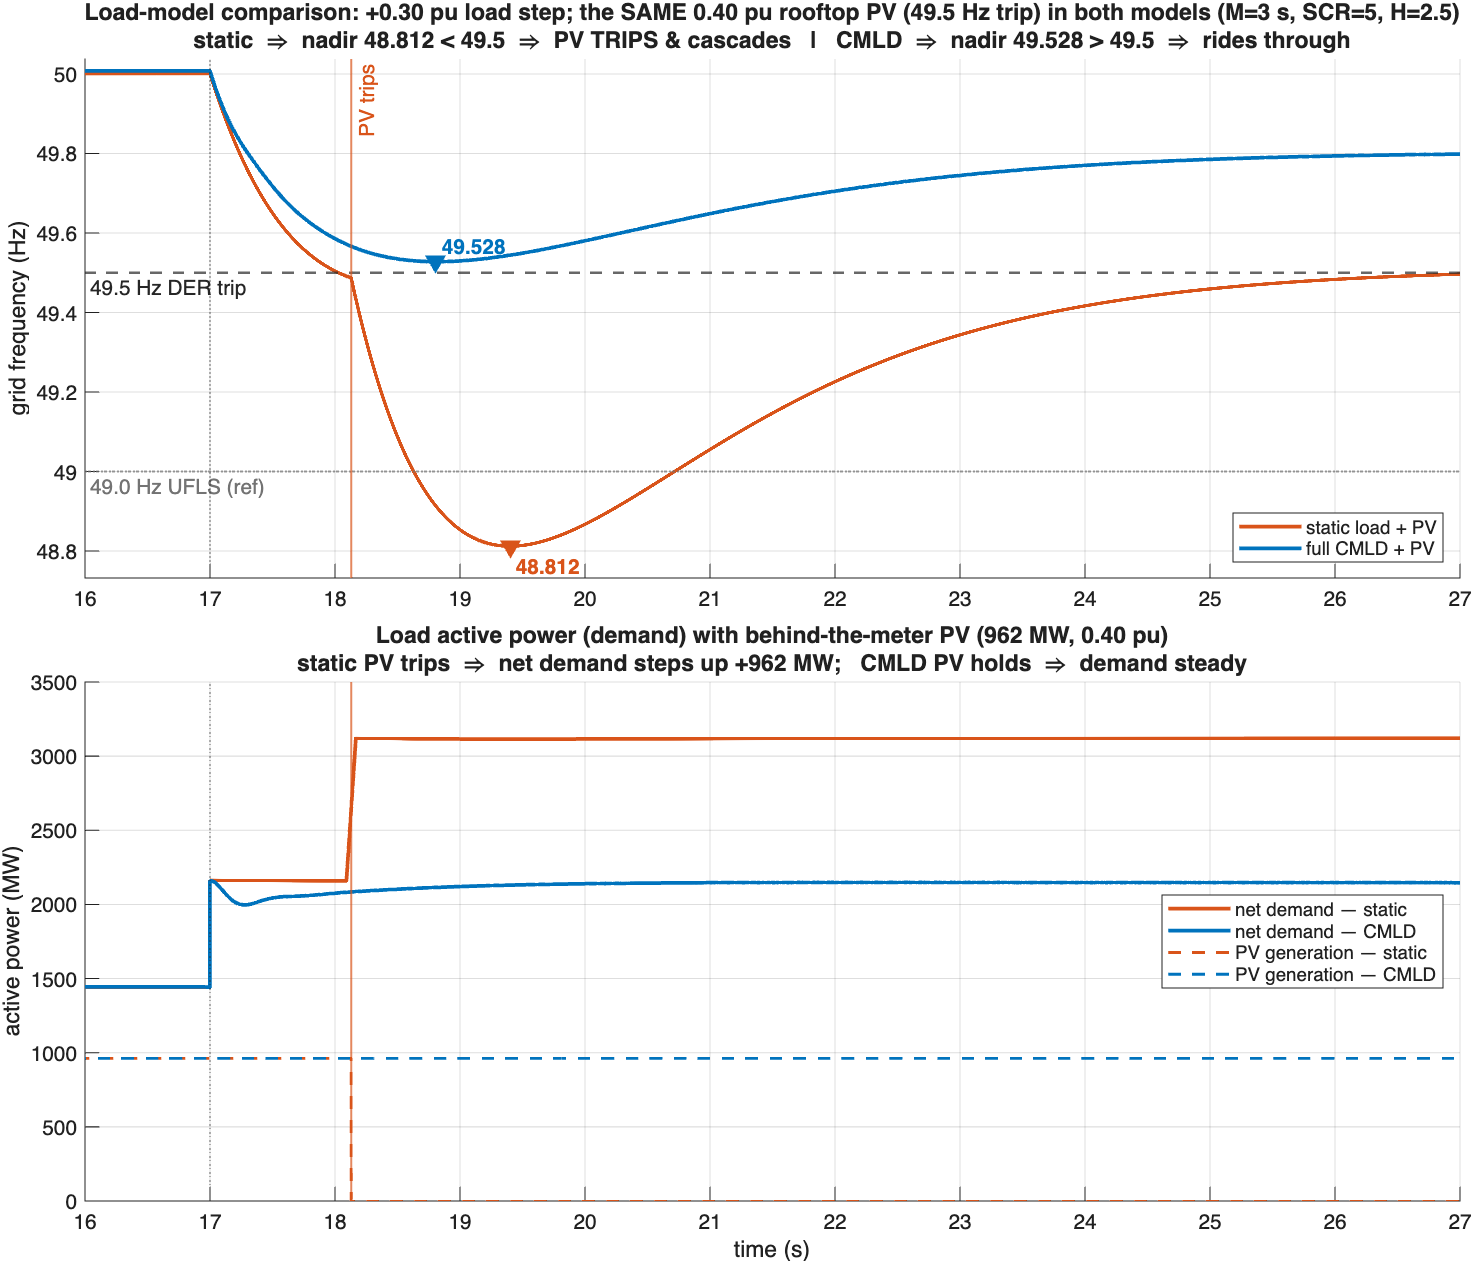
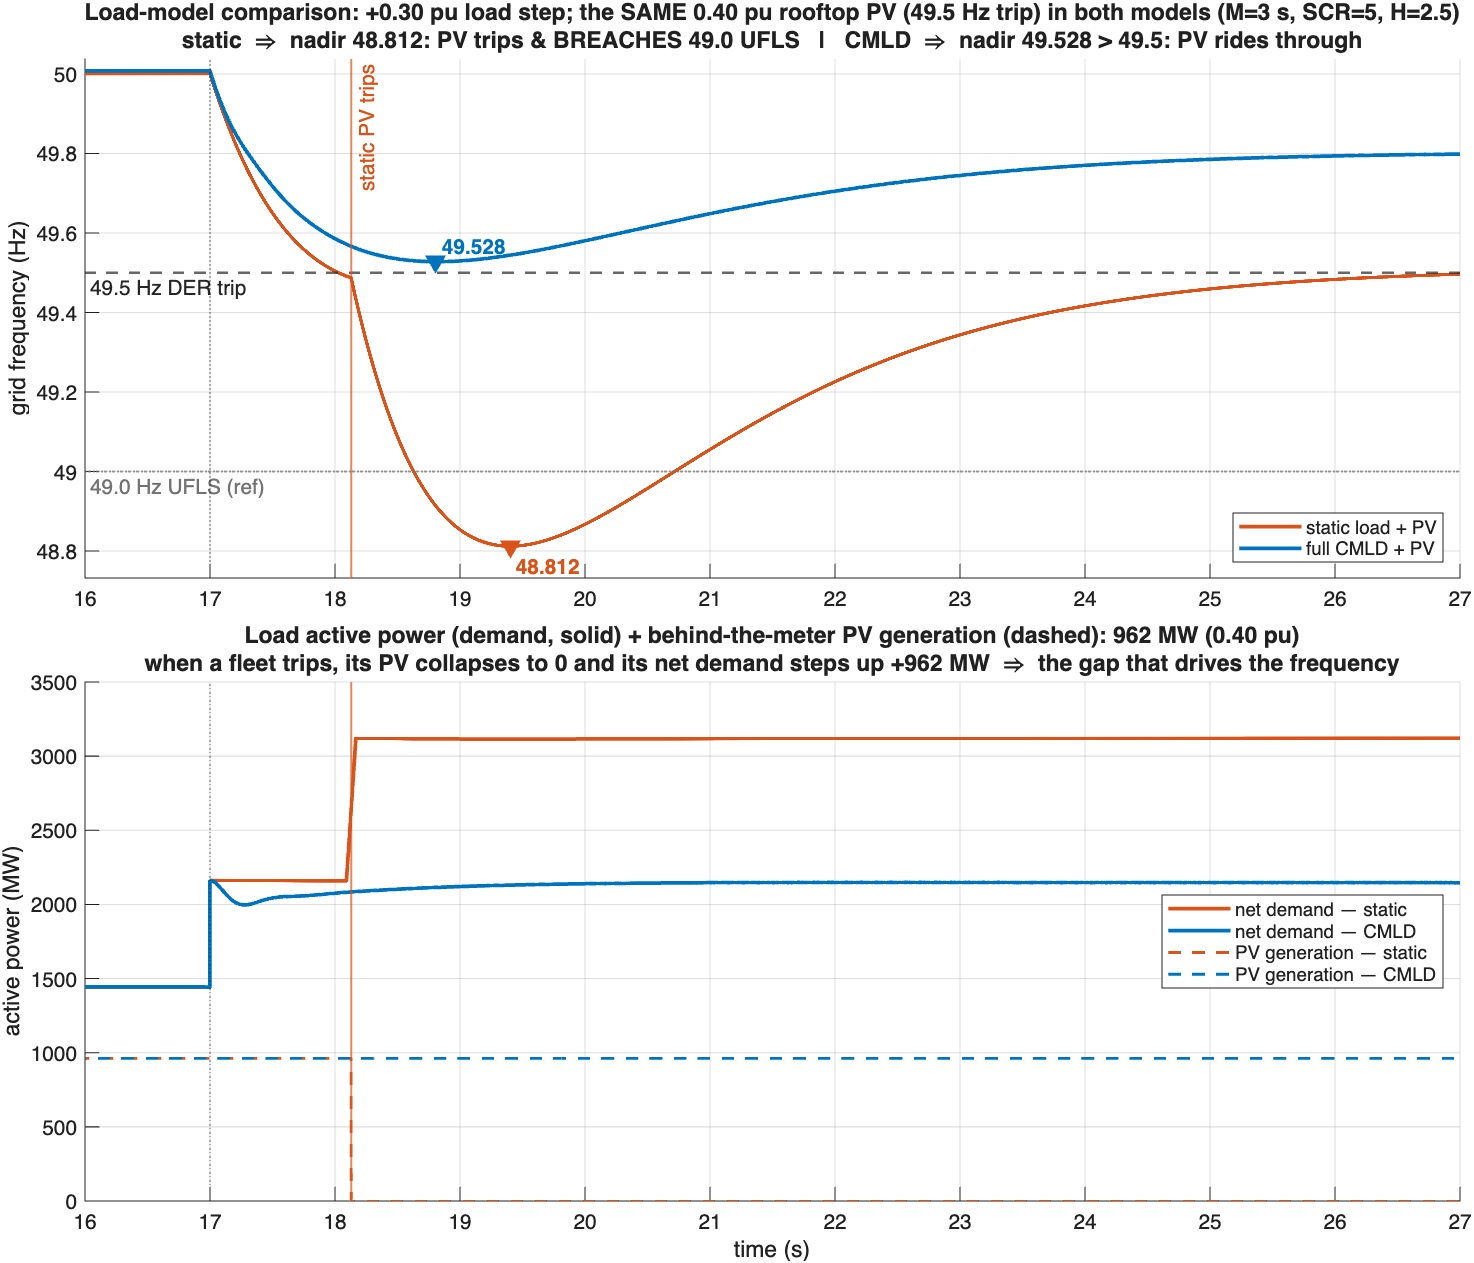
pv_trip: UFLS knife-edge case (both PV trip; static breaches 49 Hz, CMLD holds)
New 'UFLS' mode: larger disturbance so BOTH load models cross 49.5 (both PV
fleets trip), then find where the static's post-trip cascade breaches the 49.0 Hz
UFLS line while the CMLD's frequency support keeps it above. Found at dP=+0.34,
P_pv=0.25: static nadir 48.984 (breaches UFLS), CMLD nadir 49.106 (holds) -- same
event, both fleets trip, opposite load-shedding outcome from load-model fidelity.

Generalized pv_figure2: marks BOTH PV-trip instants and auto-writes the Panel-1
outcome text (rides / trips-holds / trips-breaches-UFLS); Panel-2 caption is now
generic (a tripping fleet's PV -> 0, its net demand steps up) so it's correct
whether one or both fleets trip. Regenerated phase2 / SA / 0.40pu figures.

phase_ufls + ufls_verdict + DPU option. Figure ->
phase_ufls/pv_trip_ufls_dp0.34_pv25.png. pv_ufls.mat gitignored.

Changed region(s): [[0.156, 0.4941, 0.9362, 0.5558], [0.1248, 0.0, 0.9362, 0.0618], [0.0936, 0.5249, 0.1248, 0.5558]]

diff --git a/studies/pv_trip/pv_trip.m b/studies/pv_trip/pv_trip.m
@@ -41,6 +41,7 @@ ip.addParameter('P_pv',[]);      % Phase 2: PV penetration (W); default 0.25*P_W
 ip.addParameter('t_trip_delay',0.1);  % Phase 2: DER trip delay (s)
 ip.addParameter('DP2',[0.28 0.30 0.32]); % Phase 2: focused knife-edge sweep
 ip.addParameter('PVfrac',[0.10 0.20 0.30 0.40 0.50]); % SA: DER trip-block penetrations (pu)
+ip.addParameter('DPU',[0.32 0.34 0.36 0.38 0.40 0.42]); % UFLS: disturbances where BOTH PV-trip
 ip.parse(varargin{:}); o = ip.Results;
 
 sc   = fileparts(mfilename('fullpath'));           % studies/pv_trip
@@ -53,7 +54,8 @@ switch upper(char(phase))
     case 'P1', T = phase1(o, sc, repo);
     case 'P2', T = phase2(o, sc, repo);
     case 'SA', T = phase_sa(o, sc, repo);
-    otherwise, error('pv_trip:phase','unknown phase "%s" (P1|P2|SA)', phase);
+    case 'UFLS', T = phase_ufls(o, sc, repo);
+    otherwise, error('pv_trip:phase','unknown phase "%s" (P1|P2|SA|UFLS)', phase);
 end
 end
 
@@ -263,6 +265,69 @@ fprintf('\n===== SA summary =====\n'); disp(T);
 
 pv_figure_sa(runs, T, ft, Ptarget, dp, figdir);
 fprintf('phase_sa -> %s\nPV_TRIP_SA_OK\n', figdir);
+end
+
+% ============================ UFLS KNIFE-EDGE =============================
+function T = phase_ufls(o, sc, repo) %#ok<INUSD>
+% The SECOND discrete threshold. Here the disturbance is large enough that BOTH
+% load models cross 49.5 -> PV trips in BOTH. The question is the 49.0 Hz UFLS
+% line: does the post-trip cascade breach it (mass load-shedding) or not? We
+% sweep the disturbance to find the case where the STATIC breaches 49.0 (UFLS
+% fires) while the CMLD's frequency support keeps its post-trip cascade ABOVE
+% 49.0 (no shedding). Same event, both PV fleets trip, opposite load-shedding
+% outcome -- from load-model fidelity alone.
+mdir = fullfile(sc,'models');
+figdir = fullfile(sc,'phase_ufls'); if ~isfolder(figdir), mkdir(figdir); end
+cmldPath = fullfile(mdir,'pv_cmld.slx'); statPath = fullfile(mdir,'pv_static.slx');
+assert(isfile(cmldPath)&&isfile(statPath), 'need pv_cmld.slx + pv_static.slx');
+Ptarget = sb_grid_sim.default_params('full_cmld').scale.P_W;
+ft = o.f_trip; fu = 49.0; tdel = o.t_trip_delay;
+P_pv = o.P_pv; if isempty(P_pv), P_pv = 0.25*Ptarget; end
+
+p1 = fullfile(sc,'phase1_threshold','pv_phase1.mat');
+assert(isfile(p1), 'run Phase 1 first (need pv_phase1.mat for the gross=P_W calibration)');
+S = load(p1); LFm = S.LFm; CapC = S.CapC;
+mv_cmld0 = compose_full(o.phi,o.H,o.Rr,[],LFm); mv_stat0 = struct('CapC',CapC);
+addpv = @(mv) addpvfields(mv, P_pv, ft, tdel);
+
+fprintf('\n==== pv_trip UFLS knife-edge: both PV-trip; static breaches 49.0, CMLD holds ====\n');
+fprintf('  P_pv=%.0f MW (%.2f pu); gross=P_W; sweeping the disturbance\n', P_pv/1e6, P_pv/Ptarget);
+DP = o.DPU(:)'; n = numel(DP);
+rows = cell(n,7); traces = struct('dp',{},'cmld',{},'stat',{});
+for i = 1:n
+    dp = DP(i);
+    rs = runfull(mkparams('static',    statPath, o, dp), addpv(mv_stat0));
+    rc = runfull(mkparams('full_cmld', cmldPath, o, dp), addpv(mv_cmld0));
+    v = ufls_verdict(rs, rc, fu);
+    fprintf('  dP=%+.2f | static nadir %.3f trip=%d breach=%d | CMLD nadir %.3f trip=%d breach=%d -> %s\n', ...
+        dp, rs.metrics.nadir, rs.tripped, rs.metrics.nadir<fu, rc.metrics.nadir, rc.tripped, rc.metrics.nadir<fu, v);
+    rows(i,:) = {dp, rs.metrics.nadir, rc.metrics.nadir, rs.tripped, rc.tripped, rc.metrics.nadir-rs.metrics.nadir, v};
+    traces(i) = struct('dp',dp,'cmld',rc,'stat',rs); %#ok<AGROW>
+end
+T = cell2table(rows,'VariableNames',{'dp','nadir_static','nadir_cmld','trip_static','trip_cmld','nadir_gap','verdict'});
+save(fullfile(figdir,'pv_ufls.mat'),'T','traces','P_pv','LFm','CapC','o');
+fprintf('\n===== UFLS summary =====\n'); disp(T);
+
+split = strcmp(T.verdict,'UFLS_SPLIT');
+if any(split)
+    idx = find(split); [~,k] = min(abs((T.nadir_static(idx)+T.nadir_cmld(idx))/2 - fu)); dpstar = T.dp(idx(k));
+    fprintf('\n  UFLS KNIFE-EDGE dP* = %+.2f pu: static breaches 49.0 (UFLS), CMLD holds above\n', dpstar);
+else
+    [~,k] = min(abs(T.nadir_static - fu)); dpstar = T.dp(k);
+    warning('pv_trip:ufls:nosplit','no dP with static<49.0<CMLD in DPU sweep; using dP=%.2f', dpstar);
+end
+[~,ki] = min(abs([traces.dp]-dpstar)); tr = traces(ki);
+pv_figure2(tr.stat, tr.cmld, ft, figdir, sprintf('ufls_dp%.2f_pv%02d', dpstar, round(P_pv/Ptarget*100)));
+fprintf('phase_ufls -> %s\nPV_TRIP_UFLS_OK\n', figdir);
+end
+
+function v = ufls_verdict(rs, rc, fu)
+% UFLS_SPLIT = both PV trip, static cascade breaches the 49.0 UFLS line, CMLD holds above.
+bt = rs.tripped && rc.tripped;
+if bt && rs.metrics.nadir < fu && rc.metrics.nadir >= fu, v = 'UFLS_SPLIT';
+elseif bt && rs.metrics.nadir < fu && rc.metrics.nadir < fu, v = 'both_breach';
+elseif bt, v = 'both_trip_hold';
+else, v = 'not_both_trip'; end
 end
 
 % ---- full run that also captures the PV signals (simulate doesn't expose them) --

diff --git a/studies/pv_trip/pv_figure2.m b/studies/pv_trip/pv_figure2.m
@@ -40,15 +40,19 @@ plot(ax1, cmld.t(argmin(cmld.f,cmld.t,td)), mc.nadir, 'v','MarkerFaceColor',cC,'
 text(ax1, stat.t(argmin(stat.f,stat.t,td)), ms.nadir-0.02, sprintf(' %.3f',ms.nadir),'Color',cS,'VerticalAlignment','top','FontWeight','bold');
 text(ax1, cmld.t(argmin(cmld.f,cmld.t,td)), mc.nadir+0.01, sprintf(' %.3f',mc.nadir),'Color',cC,'VerticalAlignment','bottom','FontWeight','bold');
 if stat.tripped
-    xline(ax1, stat.t_trip, '-', 'PV trips', 'Color',cS, 'LineWidth',1.0, ...
+    xline(ax1, stat.t_trip, '-', 'static PV trips', 'Color',cS, 'LineWidth',1.0, ...
         'LabelVerticalAlignment','top','LabelHorizontalAlignment','right','HandleVisibility','off');
+end
+if cmld.tripped
+    xline(ax1, cmld.t_trip, '-', 'CMLD PV trips', 'Color',cC, 'LineWidth',1.0, ...
+        'LabelVerticalAlignment','top','LabelHorizontalAlignment','left','HandleVisibility','off');
 end
 xlim(ax1,[t0 td+10]);
 ylo = min([ms.nadir mc.nadir f_ufls])-0.08; ylim(ax1,[ylo max([stat.f(:);cmld.f(:)])+0.03]);
 ylabel(ax1,'grid frequency (Hz)'); legend(ax1,'Location','southeast');
 title(ax1, sprintf(['Load-model comparison: +%.2f pu load step; the SAME %.2f pu rooftop PV (49.5 Hz trip) in both models (M=%g s, SCR=%g, H=2.5)\n' ...
-    'static \\Rightarrow nadir %.3f < 49.5 \\Rightarrow PV TRIPS & cascades   |   CMLD \\Rightarrow nadir %.3f > 49.5 \\Rightarrow rides through'], ...
-    dp, P_pv/Pw, Mg, SCRg, ms.nadir, mc.nadir));
+    'static \\Rightarrow %s   |   CMLD \\Rightarrow %s'], ...
+    dp, P_pv/Pw, Mg, SCRg, outcome_str(stat,f_trip,f_ufls), outcome_str(cmld,f_trip,f_ufls)));
 
 % ---- Panel 2: load active power (demand) + behind-the-meter PV generation ----
 ax2 = nexttile(tl); hold(ax2,'on'); grid(ax2,'on'); set(ax2,'Color','w','GridAlpha',0.15);
@@ -60,13 +64,12 @@ plot(ax2, cmld.t, Pdem_c, 'Color',cC, 'LineWidth',1.8, 'DisplayName','net demand
 plot(ax2, stat.t, stat.pv_active/1e6, '--', 'Color',cS, 'LineWidth',1.4, 'DisplayName','PV generation — static');
 plot(ax2, cmld.t, cmld.pv_active/1e6, '--', 'Color',cC, 'LineWidth',1.4, 'DisplayName','PV generation — CMLD');
 xline(ax2, td, ':', 'HandleVisibility','off');
-if stat.tripped
-    xline(ax2, stat.t_trip, '-', 'Color',cS, 'LineWidth',1.0, 'HandleVisibility','off');
-end
+if stat.tripped, xline(ax2, stat.t_trip, '-', 'Color',cS, 'LineWidth',1.0, 'HandleVisibility','off'); end
+if cmld.tripped, xline(ax2, cmld.t_trip, '-', 'Color',cC, 'LineWidth',1.0, 'HandleVisibility','off'); end
 xlim(ax2,[t0 td+10]);
 xlabel(ax2,'time (s)'); ylabel(ax2,'active power (MW)'); legend(ax2,'Location','east');
-title(ax2, sprintf(['Load active power (demand) with behind-the-meter PV (%.0f MW, %.2f pu)\n' ...
-    'static PV trips \\Rightarrow net demand steps up +%.0f MW;   CMLD PV holds \\Rightarrow demand steady'], ...
+title(ax2, sprintf(['Load active power (demand, solid) + behind-the-meter PV generation (dashed): %.0f MW (%.2f pu)\n' ...
+    'when a fleet trips, its PV collapses to 0 and its net demand steps up +%.0f MW \\Rightarrow the gap that drives the frequency'], ...
     P_pv/1e6, P_pv/Pw, P_pv/1e6));
 
 out = fullfile(figdir, sprintf('pv_trip_%s.png', tag));
@@ -76,4 +79,15 @@ end
 
 function i = argmin(f, t, td)
 post = find(t >= td); [~,k] = min(f(post)); i = post(k);
+end
+
+function s = outcome_str(r, ft, fu)
+% Human-readable outcome for one load model given the DER-trip (ft) and UFLS (fu) lines.
+if ~r.tripped
+    s = sprintf('nadir %.3f > %.1f: PV rides through', r.metrics.nadir, ft);
+elseif r.metrics.nadir >= fu
+    s = sprintf('nadir %.3f: PV trips, holds above %.1f UFLS', r.metrics.nadir, fu);
+else
+    s = sprintf('nadir %.3f: PV trips & BREACHES %.1f UFLS', r.metrics.nadir, fu);
+end
 end